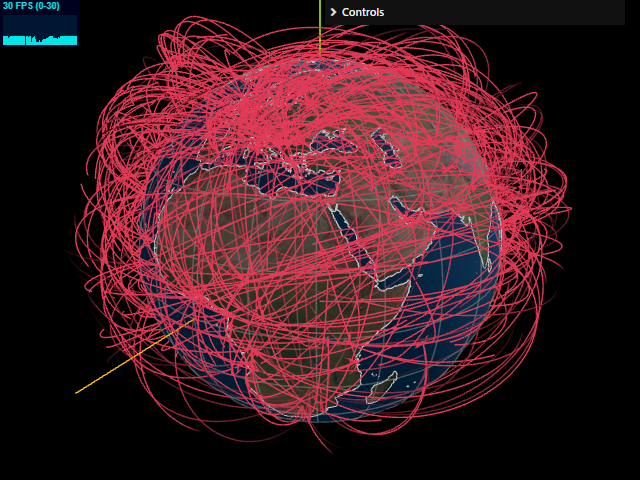
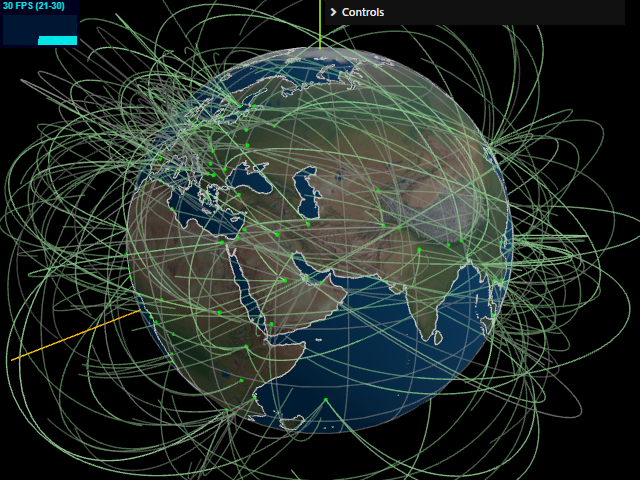
change image

diff --git a/static/site/js/load-geojson4.js b/static/site/js/load-geojson4.js
@@ -105,7 +105,7 @@ export class Main {
     // パーティクルの数
     // 16384を超えないこと！
     // これを大きくすると、シェーダーのコンパイルに時間がかかる！
-    particleNum: 1024,
+    particleNum: 512,
 
     // パーティクルを使って表現する線の長さ（1本の線におけるパーティクルの数）
     // これを1/fractionStep + 1にすると、いい具合になる
@@ -327,14 +327,14 @@ export class Main {
 
     gui
       .add(this.params, "autoRotate")
-      .name("回転して表示")
+      .name(navigator.language.startsWith("ja") ? "回転して表示" : "Auto Rotate")
       .onChange((value) => {
         this.controller.autoRotate = value;
       });
 
     gui
       .add(this.params, "autoRotateSpeed")
-      .name("回転速度")
+      .name(navigator.language.startsWith("ja") ? "回転速度" : "Auto Rotate Speed")
       .min(1.0)
       .max(10.0)
       .step(0.1)
@@ -344,7 +344,7 @@ export class Main {
 
     gui
       .add(this.params, "showGeoTexture")
-      .name("テクスチャを表示")
+      .name(navigator.language.startsWith("ja") ? "テクスチャを表示" : "Show Texture")
       .onChange((value) => {
         this.params.geoTextureMesh.visible = value;
       });
@@ -988,7 +988,7 @@ export class Main {
 
     // 画面上に存在するパーティクル（頂点）の個数は particleNum * particleLen なので、
     // その数だけvec3を格納できるFloat32Arrayを準備する
-    const vertices = new Float32Array(this.params.particleNum * this.params.particleLen * 3);
+    const positions = new Float32Array(this.params.particleNum * this.params.particleLen * 3);
 
     // UVは、その数だけvec2を格納できるFloat32Arrayを準備する
     const uv = new Float32Array(this.params.particleNum * this.params.particleLen * 2);
@@ -1006,9 +1006,9 @@ export class Main {
         const index = i * this.params.particleLen + j;
 
         // 頂点のxyz座標を0で初期化
-        vertices[index * 3 + 0] = 0;  // X座標
-        vertices[index * 3 + 1] = 0;  // Y座標
-        vertices[index * 3 + 2] = 0;  // Z座標
+        positions[index * 3 + 0] = 0;  // X座標
+        positions[index * 3 + 1] = 0;  // Y座標
+        positions[index * 3 + 2] = 0;  // Z座標
 
         // ★★★ ここ超重要！ ★★★
 
@@ -1044,12 +1044,11 @@ export class Main {
     }
 
     //
-    // アトリビュート position と uv と inddex を設定する
+    // アトリビュートを設定する
     //
 
-    // positionはバーテックスシェーダーで参照しているものの、
-    // 計算で使うときには常時vec3(0.0)なので設定しなくても表示できてしまう
-    geometry.setAttribute("position", new THREE.BufferAttribute(vertices, 3));
+    // positionは使ってないので実は設置しなくても表示できてしまう
+    geometry.setAttribute("position", new THREE.BufferAttribute(positions, 3));
 
     // uvはバーテックスシェーダーで参照しているので必須
     geometry.setAttribute("uv", new THREE.BufferAttribute(uv, 2));
@@ -1062,13 +1061,20 @@ export class Main {
       uniforms: this.uniforms,
 
       wireframe: true,
+
+      vertexColors: true,
+
       transparent: true,
+
+      // 高い確率で同じカーブに飛ぶので、その線が白くなってしまう
+      // blending: THREE.AdditiveBlending,
 
       vertexShader: /* glsl */`
 
         uniform sampler2D u_texture_position;
         uniform sampler2D u_texture_curve;
 
+        varying vec3 vColor;
         varying vec2 vUv;
 
         void main() {
@@ -1091,21 +1097,18 @@ export class Main {
           // 現在位置をその値で更新
           gl_Position = projectionMatrix * modelViewMatrix * vec4(pos, 1.0);
 
-          // uvをフラグメントシェーダーに渡す
+          // フラグメントシェーダーに渡す
           vUv = uv;
+          vColor = vec3(0.5 + curveUv.y / 10.0, 0.5 + curveUv.y / 2.0, 0.5 + curveUv.y / 10.0);
         }
       `,
 
       fragmentShader: /* glsl */`
         varying vec2 vUv;
+        varying vec3 vColor;
 
         void main() {
-          // 座標に応じて色を変える？
-          gl_FragColor = vec4(vUv.x, vUv.y, (vUv.x + vUv.y) / 2.0, 0.5);
-          // gl_FragColor = vec4(0.89, 0.23, 0.34, vUv.y);
-          // gl_FragColor = vec4(0.0, 1.0, 0.0, 0.5);
-          // gl_FragColor = vec4(0.89, 0.23, 0.34, 0.5);
-          // gl_FragColor = vec4(0.89, 0.23, 0.34, vUv.x);
+          gl_FragColor = vec4(vColor, 0.3);
         }
       `,
 
